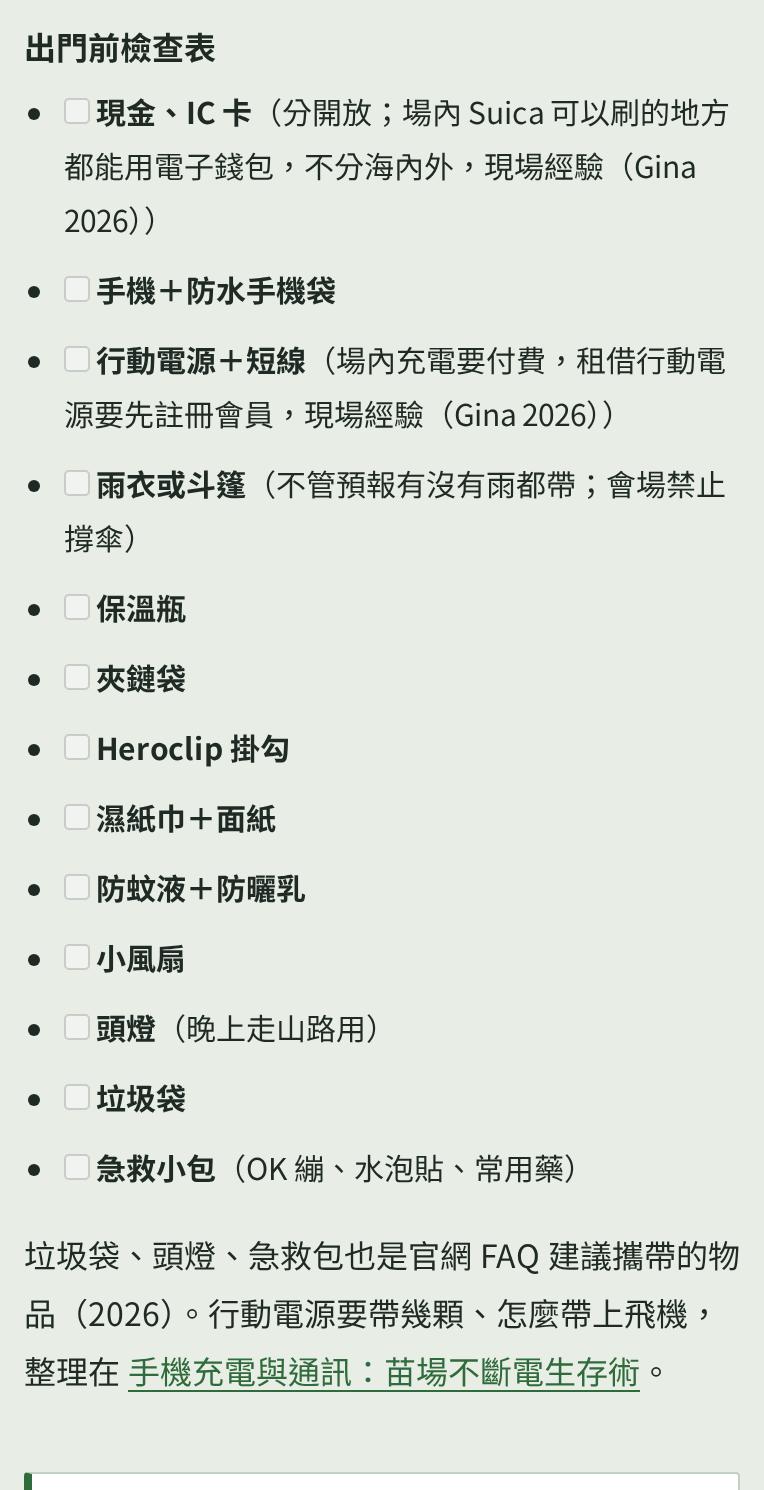
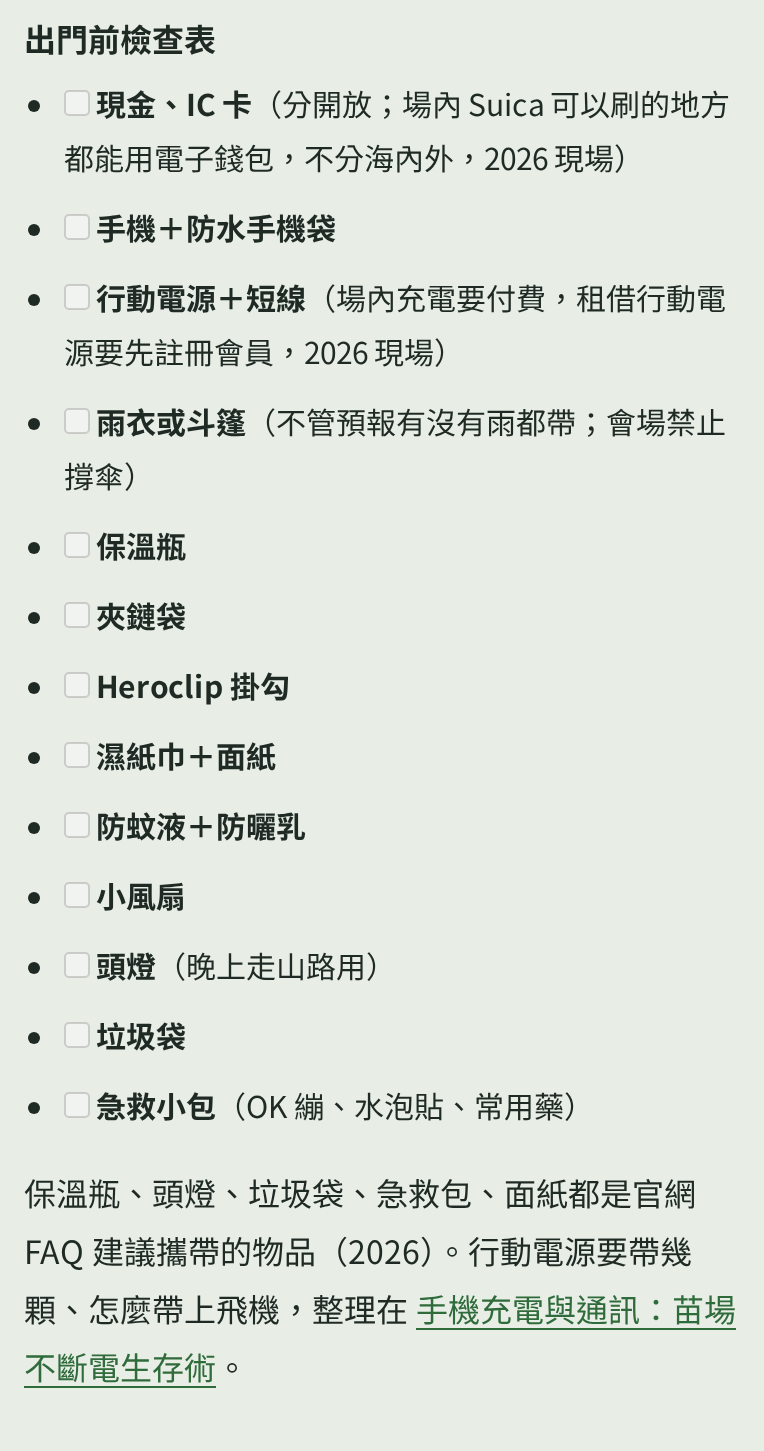
依審稿意見修正第 2 批提案：拿掉文章內的 Gina、精簡速覽、高腳椅超重註明、キッズの森官方名稱

Changed region(s): [[0.0301, 0.0, 0.9935, 1.0], [0.0301, 0.1551, 0.0602, 0.2481], [0.0301, 0.2791, 0.0602, 0.3411]]

diff --git a/docs/frf-rewrite/beginner-faq-conflicts.md b/docs/frf-rewrite/beginner-faq-conflicts.md
@@ -5,8 +5,8 @@
 - **收尾批次一起改，現在不改 #00。** 交接站排程裡，#00 是最後回頭對照的一篇（第 8 節第 1 點），這份只是先記下來，等第 2 批 Gina 核可、其他批次也改完，再一次統一。
 - 下面的「建議」是收尾時的改寫方向，用字以那時各篇的定稿為準。
 - 引用原文時，原文的破折號以「〔破折號〕」標示，提案文字本身不用破折號。
-- **2026-10-21 依 Gina 在 PR #21 的回覆更新：** 椅子佔位改成「官網規定＋實際情況」重新評估（第 1.3 節）；充電降為小差異（第 4.1 節）；電子錢包 Gina 確認場內不分海內外都能用，原本的衝突拿掉。Gina 的現場經驗註記為「現場經驗（Gina 2026）」。
-- **2026-10-21 第三輪（Gina 回覆＋已查證）：** 椅子篇官網禁用區的日文名稱統一寫成中文「兒童森林」（第 1.3 節）；迪卡儂低腳款查證是 1.2kg（第 1.1 節）。隨身背包篇補了 Heroclip 一段，檢查表改成 2.8。
+- **2026-10-21 依 Gina 在 PR #21 的回覆更新：** 椅子佔位改成「官網規定＋實際情況」重新評估（第 1.3 節）；充電降為小差異（第 4.1 節）；電子錢包 Gina 確認場內不分海內外都能用，原本的衝突拿掉。Gina 的現場經驗註記為「現場經驗（Gina 2026）」；之後提案的文章文字改標「（2026 現場）」，下面「建議」裡的改寫照這個寫。
+- **2026-10-21 第三輪（Gina 回覆＋已查證）：** 椅子篇官網禁用區的名稱依官網寫成「キッズの森（KIDS LAND 裡的森林區）」，不是キッズランド（官網 FAQ、注意事項，Grok Bot 2026-10-21 查證；第 1.3 節）；迪卡儂低腳款查證是 1.2kg（第 1.1 節）。隨身背包篇補了 Heroclip 一段，檢查表改成 2.8。
 - **2026-10-21 最後一輪回覆：** 迪卡儂高腳款查證是 Quechua 折疊露營扶手椅 2.5kg（第 1.1 節）。椅子篇的童軍椅約 500g、附背帶折疊椅建議 2kg 以下、椅子盡量託運，#00 沒有對應的說法，沒有新衝突。
 - **2026-10-21 第二輪回覆：** Gina 補充可以留椅子的區域（GREEN STAGE 後方草地、WHITE STAGE 後方；RED MARQUEE 整區不能留），#00「綠舞台後方可長時間佔位」改評為**地點大致一致**（第 1.3 節）。熱水、瓶罐（寶特瓶可以帶，玻璃瓶罐、鋁罐不能）#00 沒有提到，沒有衝突。
 
@@ -37,7 +37,7 @@
   - 實際情況（現場經驗（Gina 2026））：有特定區域可以留野餐墊和椅子、可以架設，但不負責保管；熱門歌手的場次人多時（越接近壓軸越常見），會要求靠近舞台的區域收起椅子。椅子篇提案兩者都寫。
   - 可以留椅子的區域（現場經驗（Gina 2026））：例如 GREEN STAGE 後方草地、WHITE STAGE 後方；RED MARQUEE 整區都不能留。
   - 所以 #00「綠舞台後方可長時間佔位，去買飯或看其他場時椅子就放那」的**地點大致一致**，但「全場唯一」不對，WHITE STAGE 後方也可以；另外少了三件事：官網規定是禁止、主辦方不負責保管、熱門場次會要求收起來。
-  - 禁用區：官網是 RED MARQUEE 整區（含帳篷外）、各舞台音控台與燈光塔前方、mosh pit、兒童森林，其他地方依擁擠狀況聽廣播與工作人員指示。#00 寫「紅舞台、白舞台前方人潮擁擠時」，RED MARQUEE 其實是整區不分人多人少都不能用，白舞台也不是整個前方，而是音控台與燈光塔前方。
+  - 禁用區：官網是 RED MARQUEE 整區（含帳篷外）、各舞台音控台與燈光塔前方、mosh pit、キッズの森（KIDS LAND 裡的森林區），其他地方依擁擠狀況聽廣播與工作人員指示。#00 寫「紅舞台、白舞台前方人潮擁擠時」，RED MARQUEE 其實是整區不分人多人少都不能用，白舞台也不是整個前方，而是音控台與燈光塔前方。
 - **建議：** 整題照椅子篇提案的常見問題第 2、3 題改寫，先寫官網規定，再寫實際情況，綠舞台後方保留，拿掉「全場唯一」、補上 WHITE STAGE 後方，題目可以改成「Q：椅子可以放著佔位嗎？哪裡不能用？」。
 
 ## 2. 雨衣與雨傘
@@ -80,7 +80,7 @@
   - 手機充電篇（第 3 段「付費充電帳篷」，每次約 ¥500～800）和露營篇（「會場的充電站要排隊且收費」）也是付費充電的說法，不在這批，之後的批次再對齊 2026 年的租借方式和價格。
   - 航空規定：#00 寫「每人最多帶 2 顆，每顆不超過 100Wh」，手機充電篇的表格寫「低於 100Wh 免申報；100～160Wh 需申請，每人限 2 顆」。兩篇說法不同，這批沒有查證航空規定，收尾時要查官方來源。
   - 用了破折號（「建議自備行動電源〔破折號〕」）。
-- **建議：** 第一句改成「場內充電要付費，2026 年營區和場內有行動電源租借，要先註冊會員（現場經驗（Gina 2026））；自己帶行動電源比較方便」，航空規定等手機充電篇查證後再統一。
+- **建議：** 第一句改成「場內充電要付費，2026 年營區和場內有行動電源租借，要先註冊會員（2026 現場）；自己帶行動電源比較方便」，航空規定等手機充電篇查證後再統一。
 
 ## 5. 其他（第 2 批改寫順帶發現）
 
